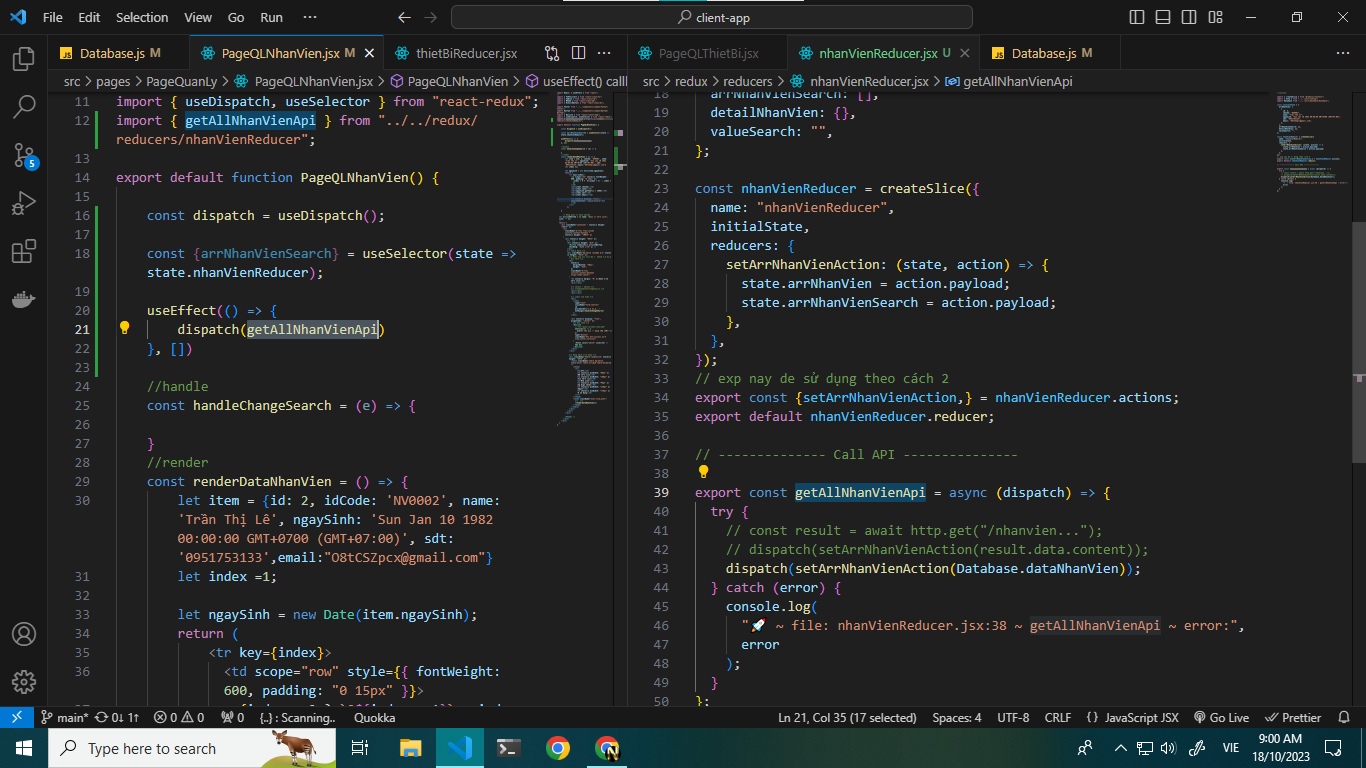
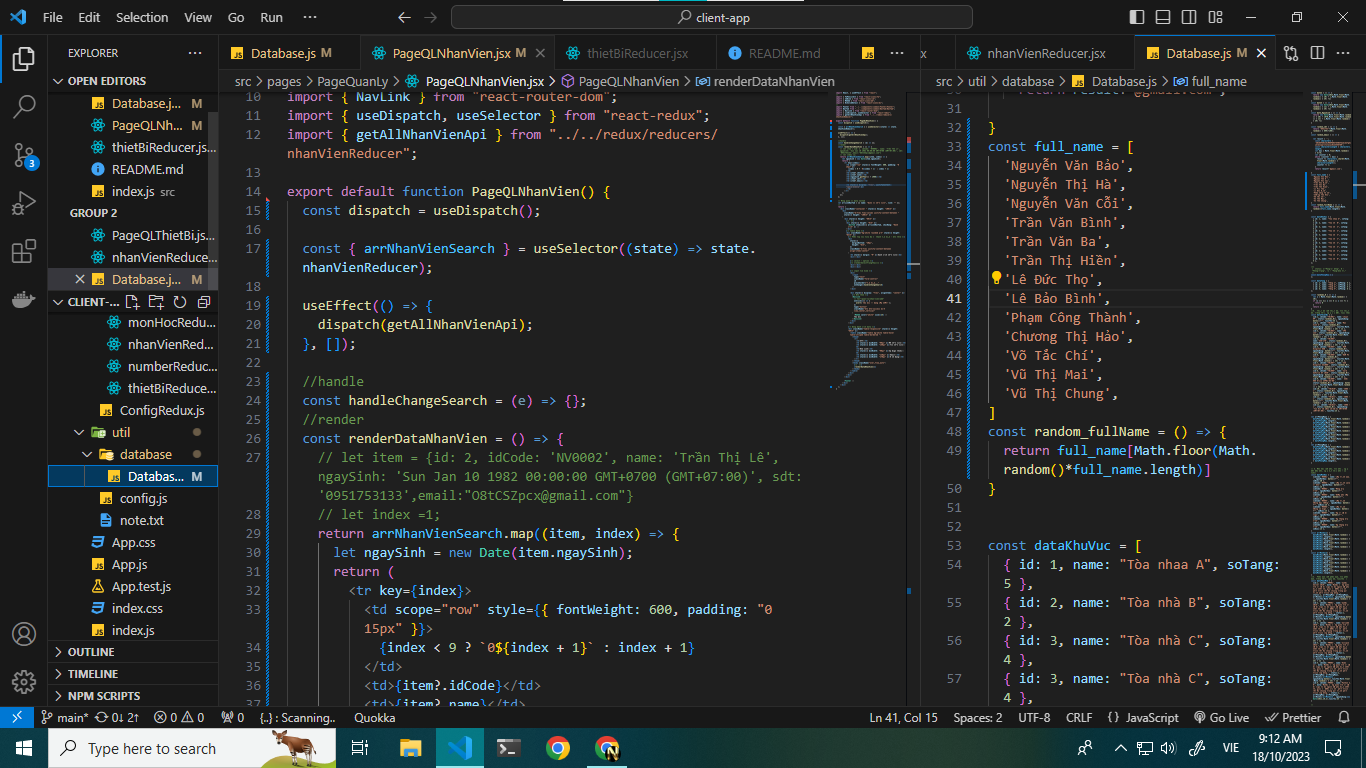
QLNV: render Data

diff --git a/src/pages/PageQuanLy/PageQLNhanVien.jsx b/src/pages/PageQuanLy/PageQLNhanVien.jsx
@@ -12,80 +12,77 @@ import { useDispatch, useSelector } from "react-redux";
 import { getAllNhanVienApi } from "../../redux/reducers/nhanVienReducer";
 
 export default function PageQLNhanVien() {
+  const dispatch = useDispatch();
 
-    const dispatch = useDispatch();
+  const { arrNhanVienSearch } = useSelector((state) => state.nhanVienReducer);
 
-    const {arrNhanVienSearch} = useSelector(state => state.nhanVienReducer);
+  useEffect(() => {
+    dispatch(getAllNhanVienApi);
+  }, []);
 
-    useEffect(() => {
-        dispatch(getAllNhanVienApi)
-    }, [])
+  //handle
+  const handleChangeSearch = (e) => {};
+  //render
+  const renderDataNhanVien = () => {
+    // let item = {id: 2, idCode: 'NV0002', name: 'Trần Thị Lê', ngaySinh: 'Sun Jan 10 1982 00:00:00 GMT+0700 (GMT+07:00)', sdt: '0951753133',email:"O8tCSZpcx@gmail.com"}
+    // let index =1;
+    return arrNhanVienSearch.map((item, index) => {
+      let ngaySinh = new Date(item.ngaySinh);
+      return (
+        <tr key={index}>
+          <td scope="row" style={{ fontWeight: 600, padding: "0 15px" }}>
+            {index < 9 ? `0${index + 1}` : index + 1}
+          </td>
+          <td>{item?.idCode}</td>
+          <td>{item?.name}</td>
+          <td>{ngaySinh.getYear() + 1900}</td>
+          <td>{item?.sdt}</td>
+          <td>{item?.email}</td>
 
-    //handle 
-    const handleChangeSearch = (e) => {
+          <td style={{ display: "flex", justifyContent: "space-evenly" }}>
+            <NavLink
+              // to={"/quan-ly/phan-mem/update"}
+              onClick={() => {
+                alert(`Update -- ${item.id} -- dang cập nhật!`);
+                // co the truyển data len redux từ đây rồi sang trang kia lấy về sau
+              }}
+            >
+              <button
+                type="button"
+                className="btn btn-primary mx-2 px-2"
+                style={{ padding: "2px" }}
+              >
+                <FaPencilAlt color="white" size={16} />
+              </button>
+            </NavLink>
+            <button
+              onClick={() => {
+                alert(`Del -- ${item.id} -- dang cập nhật!`);
+              }}
+              type="button"
+              className="btn btn-danger mx-2 px-2"
+              style={{ padding: "2px" }}
+            >
+              <ImBin2 color="white" size={16} />
+            </button>
+            <NavLink
+              // to={`../quan-ly/phong`}
+              onClick={() => {
+                alert(`Chi tiết -- ${item.id} -- dang cập nhật!`);
+              }}
+              type="button"
+              className="btn btn-info mx-2 px-2"
+              style={{ padding: "2px" }}
+            >
+              <BiSolidDetail color="white" size={16} />
+            </NavLink>
+          </td>
+        </tr>
+      );
+    });
+  };
 
-    }
-    //render
-    const renderDataNhanVien = () => {
-        let item = {id: 2, idCode: 'NV0002', name: 'Trần Thị Lê', ngaySinh: 'Sun Jan 10 1982 00:00:00 GMT+0700 (GMT+07:00)', sdt: '0951753133',email:"O8tCSZpcx@gmail.com"}
-        let index =1;
-
-        let ngaySinh = new Date(item.ngaySinh);
-        return (
-            <tr key={index}>
-              <td scope="row" style={{ fontWeight: 600, padding: "0 15px" }}>
-                {index < 9 ? `0${index + 1}` : index + 1}
-              </td>
-              <td>{item?.idCode}</td>
-              <td>{item?.name}</td>
-              <td>{ngaySinh.getYear() + 1900}</td>
-              <td>{item?.sdt}</td>
-              <td>{item?.email}</td>
-              
-              <td style={{ display: "flex", justifyContent: "space-evenly" }}>
-                <NavLink
-                  // to={"/quan-ly/phan-mem/update"}
-                  onClick={() => {
-                    alert(`Update -- ${item.id} -- dang cập nhật!`);
-                    // co the truyển data len redux từ đây rồi sang trang kia lấy về sau
-                  }}
-                >
-                  <button
-                    type="button"
-                    className="btn btn-primary mx-2 px-2"
-                    style={{ padding: "2px" }}
-                  >
-                    <FaPencilAlt color="white" size={16} />
-                  </button>
-                </NavLink>
-                <button
-                  onClick={() => {
-                    alert(`Del -- ${item.id} -- dang cập nhật!`);
-                  }}
-                  type="button"
-                  className="btn btn-danger mx-2 px-2"
-                  style={{ padding: "2px" }}
-                >
-                  <ImBin2 color="white" size={16} />
-                </button>
-                <NavLink
-                  // to={`../quan-ly/phong`}
-                  onClick={() => {
-                    alert(`Chi tiết -- ${item.id} -- dang cập nhật!`);
-                  }}
-                  type="button"
-                  className="btn btn-info mx-2 px-2"
-                  style={{ padding: "2px" }}
-                >
-                  <BiSolidDetail color="white" size={16} />
-                </NavLink>
-              </td>
-            </tr>
-          );
-
-    }
-
-      // Mảng quản lý data navtab
+  // Mảng quản lý data navtab
   let arrLinkNavTab = [{ name: "Quản lý nhân viên", link: "" }];
   //
   return (
@@ -170,5 +167,5 @@ export default function PageQLNhanVien() {
         <Footer />
       </div>
     </div>
-  )
+  );
 }

diff --git a/src/util/database/Database.js b/src/util/database/Database.js
@@ -29,7 +29,24 @@ const random_email = () => {
     }
     return result+'@gmail.com';
 
-  return "0951753"+Math.floor(Math.random() * 899)+100;
+}
+const full_name = [
+  'Nguyễn Văn Bảo',
+  'Nguyễn Thị Hà',
+  'Nguyễn Văn Cỗi',
+  'Trần Văn Bình',
+  'Trần Văn Ba',
+  'Trần Thị Hiền',
+  'Lê Đức Thọ',
+  'Lê Bảo Bình',
+  'Phạm Công Thành',
+  'Chương Thị Hảo',
+  'Võ Tắc Chí',
+  'Vũ Thị Mai',
+  'Vũ Thị Chung',
+]
+const random_fullName = () => {
+  return full_name[Math.floor(Math.random()*full_name.length)]
 }
 
 
@@ -226,15 +243,15 @@ const dataPhanMem = [
 
 //
 const dataNhanVien = [
-  {id:1, idCode:'NV0001', name:"Trần Thị Lê", ngaySinh: date_NgaySinh()+"", sdt:random_sdt(), email:random_email() },
-  {id:2, idCode:'NV0002', name:"Trần Thị Lê", ngaySinh: date_NgaySinh()+"", sdt:random_sdt(), email:random_email() },
-  {id:3, idCode:'NV0003', name:"Trần Thị Lê", ngaySinh: date_NgaySinh()+"", sdt:random_sdt(), email:random_email() },
-  {id:4, idCode:'NV0004', name:"Trần Thị Lê", ngaySinh: date_NgaySinh()+"", sdt:random_sdt(), email:random_email() },
-  {id:5, idCode:'NV0005', name:"Trần Thị Lê", ngaySinh: date_NgaySinh()+"", sdt:random_sdt(), email:random_email() },
-  {id:6, idCode:'NV0006', name:"Trần Thị Lê", ngaySinh: date_NgaySinh()+"", sdt:random_sdt(), email:random_email() },
-  {id:7, idCode:'NV0007', name:"Trần Thị Lê", ngaySinh: date_NgaySinh()+"", sdt:random_sdt(), email:random_email() },
-  {id:8, idCode:'NV0008', name:"Trần Thị Lê", ngaySinh: date_NgaySinh()+"", sdt:random_sdt(), email:random_email() },
-  {id:9, idCode:'NV0009', name:"Trần Thị Lê", ngaySinh: date_NgaySinh()+"", sdt:random_sdt(), email:random_email() },
+  {id:1, idCode:'NV0001', name:random_fullName(), ngaySinh: date_NgaySinh()+"", sdt:random_sdt(), email:random_email() },
+  {id:2, idCode:'NV0002', name:random_fullName(), ngaySinh: date_NgaySinh()+"", sdt:random_sdt(), email:random_email() },
+  {id:3, idCode:'NV0003', name:random_fullName(), ngaySinh: date_NgaySinh()+"", sdt:random_sdt(), email:random_email() },
+  {id:4, idCode:'NV0004', name:random_fullName(), ngaySinh: date_NgaySinh()+"", sdt:random_sdt(), email:random_email() },
+  {id:5, idCode:'NV0005', name:random_fullName(), ngaySinh: date_NgaySinh()+"", sdt:random_sdt(), email:random_email() },
+  {id:6, idCode:'NV0006', name:random_fullName(), ngaySinh: date_NgaySinh()+"", sdt:random_sdt(), email:random_email() },
+  {id:7, idCode:'NV0007', name:random_fullName(), ngaySinh: date_NgaySinh()+"", sdt:random_sdt(), email:random_email() },
+  {id:8, idCode:'NV0008', name:random_fullName(), ngaySinh: date_NgaySinh()+"", sdt:random_sdt(), email:random_email() },
+  {id:9, idCode:'NV0009', name:random_fullName(), ngaySinh: date_NgaySinh()+"", sdt:random_sdt(), email:random_email() },
 ]
 // console.log("🚀 ~ file: Database.js:239 ~ dataNhanVien:", dataNhanVien[1])
 
